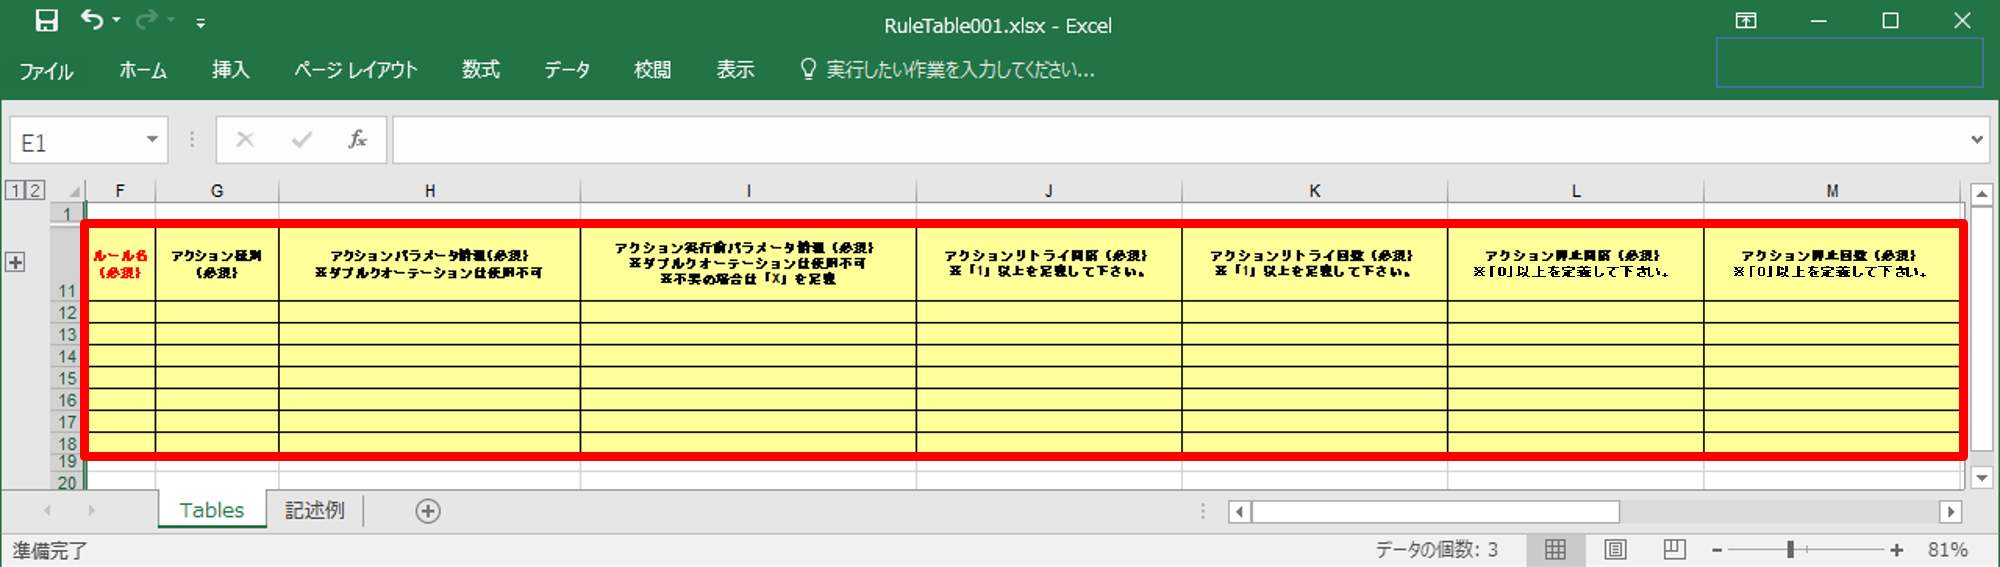
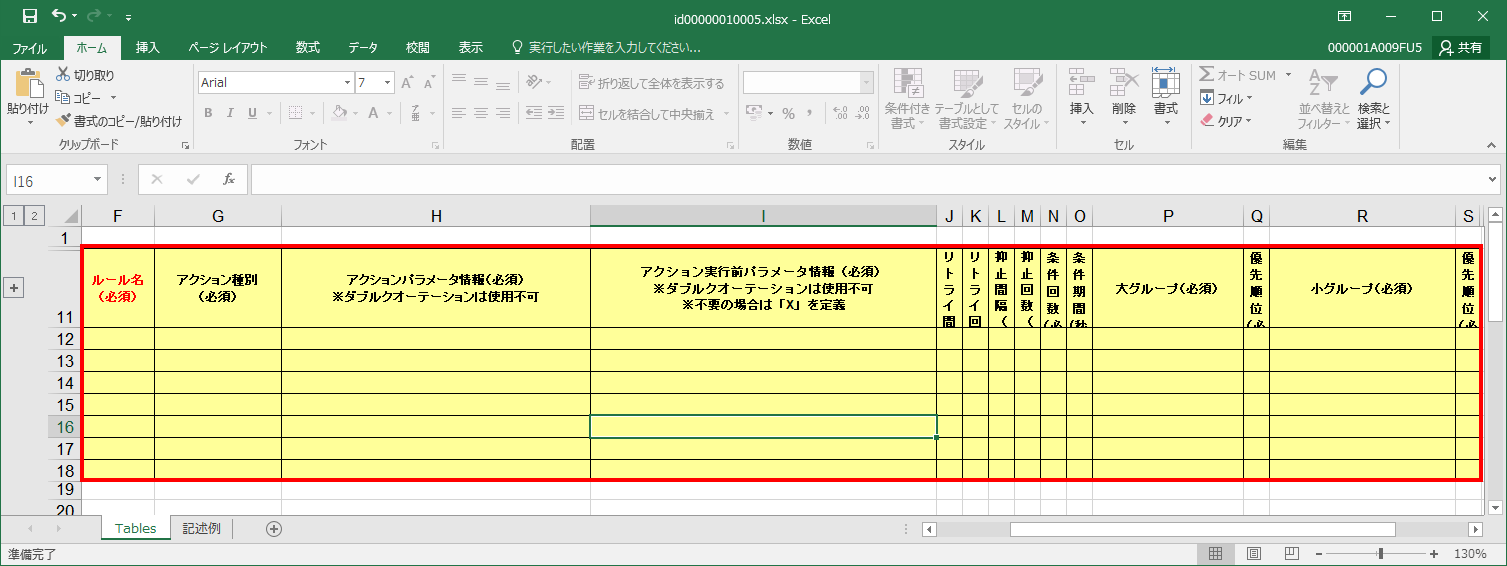
#6007 マニュアル修正

diff --git a/oase_documents/decision_table/03_decision_table_file.rst b/oase_documents/decision_table/03_decision_table_file.rst
@@ -34,7 +34,7 @@
    :header: No., 構成要素, 説明
    :widths: 5, 20, 60
 
-   1, ファイル名,ディシジョンテーブル画面で新規追加および複製時に自動生成された文字列がエクセルファイルのファイル名になります。
+   1, ファイル名,ディシジョンテーブル画面で新規追加および複製時に自動生成された文字列がエクセルファイルの初期ファイル名になります。
    2, コメント部,ダウンロードしたエクセルファイルの背景色緑色の箇所です。
    3, 条件部(条件式),ディシジョンテーブル画面で新規追加および複製時に入力した条件式は生成されるエクセルファイルの条件部（背景色水色箇所）になります。
    4, アクション部,ダウンロードしたエクセルファイルの背景色黄色の箇所です。入力必須項目です。
@@ -86,7 +86,8 @@
 * アクションを実行してよいか、実行する前に事前承認メールを送る設定をすることができます。
 * アクションの実行が失敗した場合何回リトライするか、リトライの間隔および回数を設定することができます。
 * 同一アクションを何度も実行するのを避けたい場合、抑止の間隔および回数を設定することで制御できます。
-* アクション種別ごとに記入方法が異なる場合があります。設定内容に合わせて記入してください。
+* アクション種別ごとに記入方法が異なります。設定内容に合わせて記入してください。
+* 複数のルールをグルーピングすることで、コリレーション機能を利用することができます。
 
 .. figure:: ../images/decision_table/decision_table_32.png
    :scale: 100%
@@ -122,7 +123,7 @@
 
 | **アクションパラメータ情報（必須）※ダブルクオーテーションは使用不可**
 
-記入方法は後述の :ref:`labelCap1` および :ref:`labelCap2` をご参照ください。
+記入方法は後述の :ref:`labelCap1` 、 :ref:`labelCap2` および :ref:`labelCap3` をご参照ください。
 
 | **アクション実行前パラメータ情報（必須）※ダブルクオーテーションは使用不可 ※不要の場合は「X」を定義**
 
@@ -207,6 +208,94 @@
  0
 
 
+| **条件回数（必須）**
+
+* アクションの条件回数を記述します。
+
+**記述例**
+
+::
+
+ 3
+
+::
+
+ X
+
+
+| **条件期間(秒)（必須）**
+
+* アクションの条件期間を記述します。
+
+**記述例**
+
+::
+
+ 300
+
+::
+
+ X
+
+
+| **大グループ（必須）**
+
+* グルーピングしたいルールに対してグループ名を記述します。
+
+**記述例**
+
+::
+
+ group1
+
+::
+
+ X
+
+
+| **優先順位（必須）**
+
+* 大グループでグルーピングしたルールの優先順位を記述します。1が最優先になります。
+
+**記述例**
+
+::
+
+ 1
+
+::
+
+ X
+
+
+| **小グループ（必須）**
+
+* 大グループからさらにグルーピングしたいルールに対してグループ名を記述します。
+
+**記述例**
+
+::
+
+ group10
+
+::
+
+ X
+
+
+| **優先順位（必須）**
+
+* 小グループでグルーピングしたルールの優先順位を記述します。1が最優先になります。
+
+**記述例**
+
+::
+
+ 1
+
+::
+
+ X
 
 
 .. _labelCap1:
@@ -345,6 +434,8 @@ mailドライバ
 
  MAIL_NAME=oasetest,MAIL_TO={{ VAR_条件名 }},MAIL_CC=ccc@ccc.com,MAIL_BCC=ddd@ddd.com,MAIL_TEMPLATE=test_template
 
+
+.. _labelCap3:
 
 ServiceNowドライバ
 ^^^^^^^^^^^^^^^^^^
